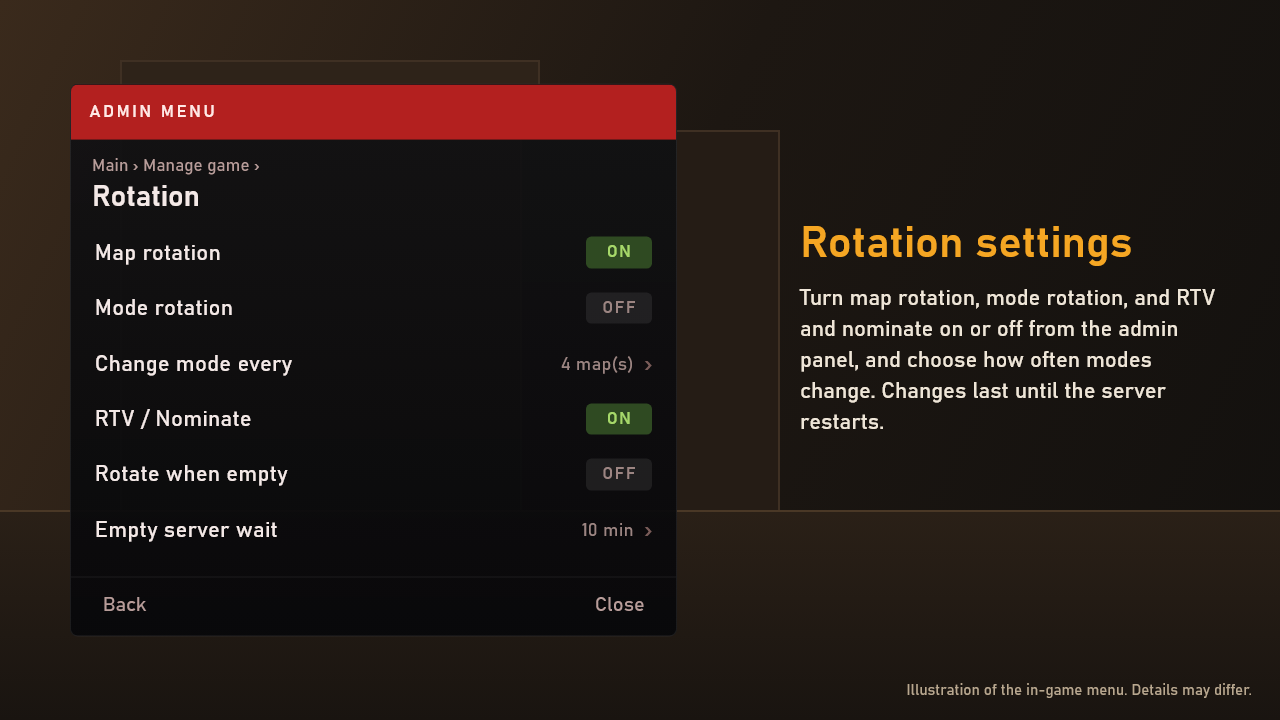
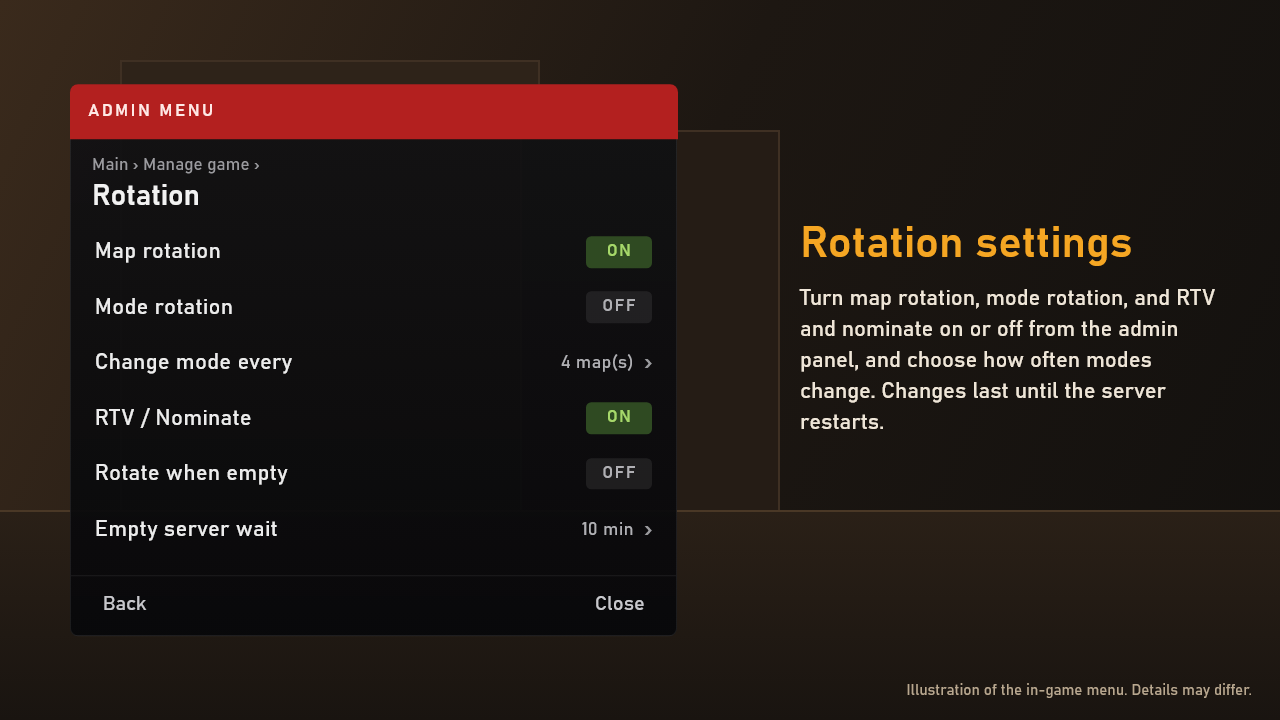
chore: the admin panel's header covers its outline, and its text is the menus' grey
The outline is the vote panel's again, and the red header reaches over it at the top and sides. Titles, labels, values,
arrows and the footer use the menus' greys instead of reddish ones; the header, icons, keys and danger rows stay red.

diff --git a/addon/mockups/thumbnail.html b/addon/mockups/thumbnail.html
@@ -28,7 +28,7 @@ html,body{width:1280px;height:720px;overflow:hidden;font-family:"Bahnschrift","S
 .vh{display:flex;align-items:center;gap:10px}.vt{flex:1}.tm{height:30px;padding:0 12px;line-height:28px;border:1px solid #f5a62399;border-radius:15px;background:#f5a6231a;color:#f5a623;font-size:15px;font-weight:600}
 .num{width:24px;height:24px;border-radius:12px;background:#ffffff1f;text-align:center;line-height:24px;font-size:13px;font-weight:600;flex:none}
 .ln{display:flex;align-items:center;gap:6px}.bd{font-size:11px;padding:1px 5px;border-radius:3px;color:#10131a;background:#f5a623}
-.bot{display:flex;justify-content:space-between;padding:12px 24px 14px;font-size:15px;color:#b79c99;border-top:1px solid #ffffff14}
+.bot{display:flex;justify-content:space-between;padding:12px 24px 14px;font-size:15px;color:#c8c8cc;border-top:1px solid #ffffff14}
 .tb{height:3px;background:#ffffff14;border-radius:2px;margin:10px 0 12px}.tb i{display:block;height:3px;width:62%;background:#f5a623;border-radius:2px}
 .ro{display:flex;align-items:center;gap:10px;padding:7px 8px;border-radius:8px;margin-bottom:6px;background:#ffffff0a}
 .ro.me{background:#f5a6231f;box-shadow:inset 0 0 0 1px #f5a62380}
@@ -37,12 +37,12 @@ html,body{width:1280px;height:720px;overflow:hidden;font-family:"Bahnschrift","S
 .vf{display:flex;align-items:center;margin-top:9px;font-size:12px;color:#9a9a9e;white-space:nowrap}.vk{width:18px;height:18px;line-height:18px;text-align:center;font-size:11px;background:#f2eeee;color:#160a0b;border-radius:3px;font-weight:600}.vo{margin:0 3px}.vn{margin:0 10px 0 4px}.vc{margin-left:auto}
 .c{width:22px;text-align:right;font-size:17px;font-weight:600;color:#e3e7f0}
 
-.sa{left:830px;top:240px;width:420px;z-index:2;background:linear-gradient(180deg,rgba(18,18,20,.97),rgba(8,8,10,.98));border:1px solid #ffffff0d;border-radius:8px;overflow:hidden;color:#f4e9e7}
-.hd{height:44px;line-height:44px;padding:0 16px;background:#b3201f;font-size:13px;letter-spacing:1.8px;font-weight:600;color:#ffe9e6}
-.tl{padding:12px 18px 6px}.cr{font-size:13px;color:#b79c99}.tt{font-size:22px;font-weight:600;margin-top:2px}
+.sa{left:830px;top:240px;width:420px;z-index:2;background:linear-gradient(180deg,rgba(18,18,20,.97),rgba(8,8,10,.98));border:1px solid #ffffff14;border-radius:8px;overflow:visible;color:#ececec}
+.hd{margin:-1px -1px 0;border-radius:8px 8px 0 0;height:44px;line-height:44px;padding:0 16px;background:#b3201f;font-size:13px;letter-spacing:1.8px;font-weight:600;color:#ffe9e6}
+.tl{padding:12px 18px 6px}.cr{font-size:13px;color:#9a9a9e}.tt{font-size:22px;font-weight:600;margin-top:2px;color:#f2f2f2}
 .ls{padding:0 10px 10px}
-.rw{display:flex;align-items:center;height:44px;padding:0 10px;font-size:18px}
-.rw svg{width:26px;height:26px;margin-right:12px;color:#ff6b5e;flex:none}.rw span{flex:1}.rw u{text-decoration:none;color:#7a5c59;font-size:20px}
+.rw{display:flex;align-items:center;height:44px;padding:0 10px;font-size:18px;color:#ececec}
+.rw svg{width:26px;height:26px;margin-right:12px;color:#ff6b5e;flex:none}.rw span{flex:1}.rw u{text-decoration:none;color:#9a9a9e;font-size:20px}
 </style></head><body><div class="s">
 <div class="head"><div class="n">GameModeManager <b>Menus</b></div><div class="d">Panorama menus and vote panels for CS2 servers</div></div>
 

diff --git a/addon/mockups/scenes.html b/addon/mockups/scenes.html
@@ -58,19 +58,19 @@ html,body{width:1280px;height:720px;overflow:hidden;background:#12100e;font-fami
 .mv .vf{display:flex;align-items:center;margin-top:9px;font-size:12px;color:#9a9a9e;white-space:nowrap}.mv .vf .vk{width:18px;height:18px;line-height:18px;text-align:center;font-size:11px;background:#f2eeee;color:#160a0b;border-radius:3px;font-weight:600}.mv .vf .vo{margin:0 3px}.mv .vf .vn{margin:0 10px 0 4px}.mv .vf .vc{margin-left:auto}
 .mv .c{width:24px;text-align:right;font-size:17px;font-weight:600;color:#e3e7f0;flex:none}
 
-.sa{width:460px;background:linear-gradient(180deg,rgba(18,18,20,.92),rgba(8,8,10,.95));border:1px solid #ffffff0d;border-radius:6px;overflow:hidden}
-.sa .hd{display:flex;align-items:center;height:42px;padding:0 14px;background:#b3201f}
+.sa{width:460px;background:linear-gradient(180deg,rgba(18,18,20,.92),rgba(8,8,10,.95));border:1px solid #ffffff14;border-radius:6px;overflow:visible}
+.sa .hd{margin:-1px -1px 0;border-radius:6px 6px 0 0;display:flex;align-items:center;height:42px;padding:0 14px;background:#b3201f}
 .sa .brand{flex:1;font-size:13px;letter-spacing:1.8px;font-weight:600;color:#ffe9e6}.sa .cnt{font-size:13px;color:#ffd7d2}
-.sa .tl{padding:12px 16px 8px}.sa .cr{font-size:13px;color:#b79c99}.sa .tt{font-size:22px;font-weight:600;color:#f4e9e7;margin-top:2px}.sa .su{font-size:13px;color:#c9a9a5;margin-top:3px}
+.sa .tl{padding:12px 16px 8px}.sa .cr{font-size:13px;color:#9a9a9e}.sa .tt{font-size:22px;font-weight:600;color:#f2f2f2;margin-top:2px}.sa .su{font-size:13px;color:#b0b0b4;margin-top:3px}
 .sa .list{padding:0 8px 14px}
-.sa .rw{display:flex;align-items:center;height:42px;padding:0 10px;font-size:17px;color:#f4e9e7;border-radius:4px}
+.sa .rw{display:flex;align-items:center;height:42px;padding:0 10px;font-size:17px;color:#ececec;border-radius:4px}
 .sa .rw.on{background:#ffffff12;box-shadow:inset 3px 0 0 #ff4a3d}
-.sa .rw span{flex:1}.sa .ar{flex:none;color:#7a5c59;font-size:20px}
+.sa .rw span{flex:1}.sa .ar{flex:none;color:#9a9a9e;font-size:20px}
 .sa .ico{width:28px;height:28px;margin-right:12px;flex:none;color:#ff6b5e}
 .sa .pill{flex:none;width:50px;height:24px;line-height:24px;text-align:center;border-radius:4px;font-size:13px;font-weight:600;letter-spacing:1px}
-.sa .pill.on{background:#2f4a22;color:#a6d86a}.sa .pill.off{background:#ffffff14;color:#9c8582}
-.sa .val{flex:none;font-size:14px;color:#9c8582;margin-right:8px}
-.sa .bot{display:flex;justify-content:space-between;padding:12px 24px 14px;font-size:15px;color:#b79c99;border-top:1px solid #ffffff14}
+.sa .pill.on{background:#2f4a22;color:#a6d86a}.sa .pill.off{background:#ffffff14;color:#b0b0b4}
+.sa .val{flex:none;font-size:14px;color:#b0b0b4;margin-right:8px}
+.sa .bot{display:flex;justify-content:space-between;padding:12px 24px 14px;font-size:15px;color:#c8c8cc;border-top:1px solid #ffffff14}
 </style></head>
 <body><div class="stage"><div class="wall"></div><div class="wall b"></div><div class="floor"></div>
 <div class="host" id="host"></div>

diff --git a/addon/admin_theme.css b/addon/admin_theme.css
@@ -4,7 +4,8 @@
 .sa-root
 {
 	background-color: gradient( linear, 0% 0%, 0% 100%, from( rgba(18, 18, 20, 0.92) ), to( rgba(8, 8, 10, 0.95) ) );
-	border: 1px solid #ffffff0d; /* Fainter than the vote panel's, so it barely shows around the red header. Panorama gives a border one colour on every side. */
+	border: 1px solid #ffffff14; /* The vote panel's outline. The red header covers it, below. */
+	overflow: noclip noclip; /* So the header can reach over the outline. Nothing else in the panel goes past its edge. */
 	world-blur: gaussian(2, 2, 2); /* Like the menus: the game behind is blurred, so the panel looks the same over bright maps */
 }
 
@@ -32,3 +33,23 @@
 {
 	background-color: #ffffff12;
 }
+
+/* The red header reaches over the outline at the top and sides, so there's no light line around it. The panel is always 460px
+   wide, so the header is too, starting 1px left of it. Its top corners are rounded like the panel's, which no longer clips them. */
+.sa-head
+{
+	width: 460px;
+	margin: -1px 0px 0px -1px;
+	border-radius: 6px 6px 0px 0px;
+}
+
+/* The menus' greys for the text, instead of PMM_SimpleAdmin's reddish ones. The header, icons, keys and danger rows stay red. */
+.sa-title { color: #f2f2f2; }
+.sa-lab { color: #ececec; }
+.sa-crumb { color: #9a9a9e; }
+.sa-sub { color: #b0b0b4; }
+.sa-hint { color: #b0b0b4; }
+.sa-pill { color: #b0b0b4; }
+.sa-arrow { color: #9a9a9e; }
+.sa-ft { color: #c8c8cc; }
+.sa-row.r-dim .sa-lab, .sa-row.r-dis .sa-lab { color: #6e6e73; }
